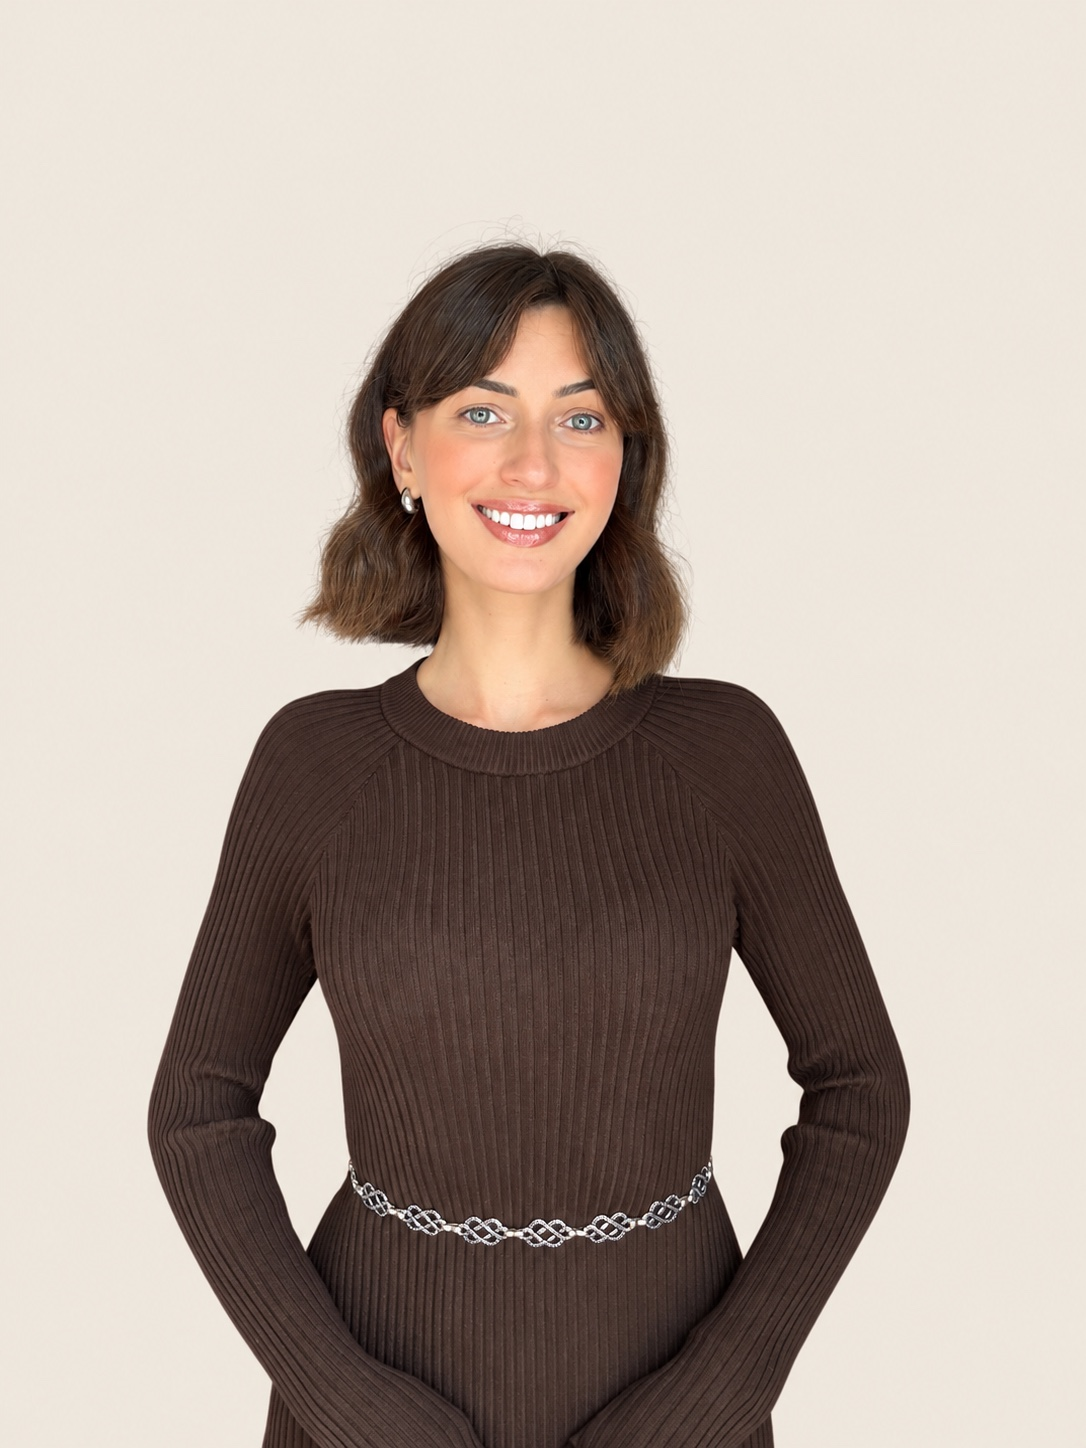
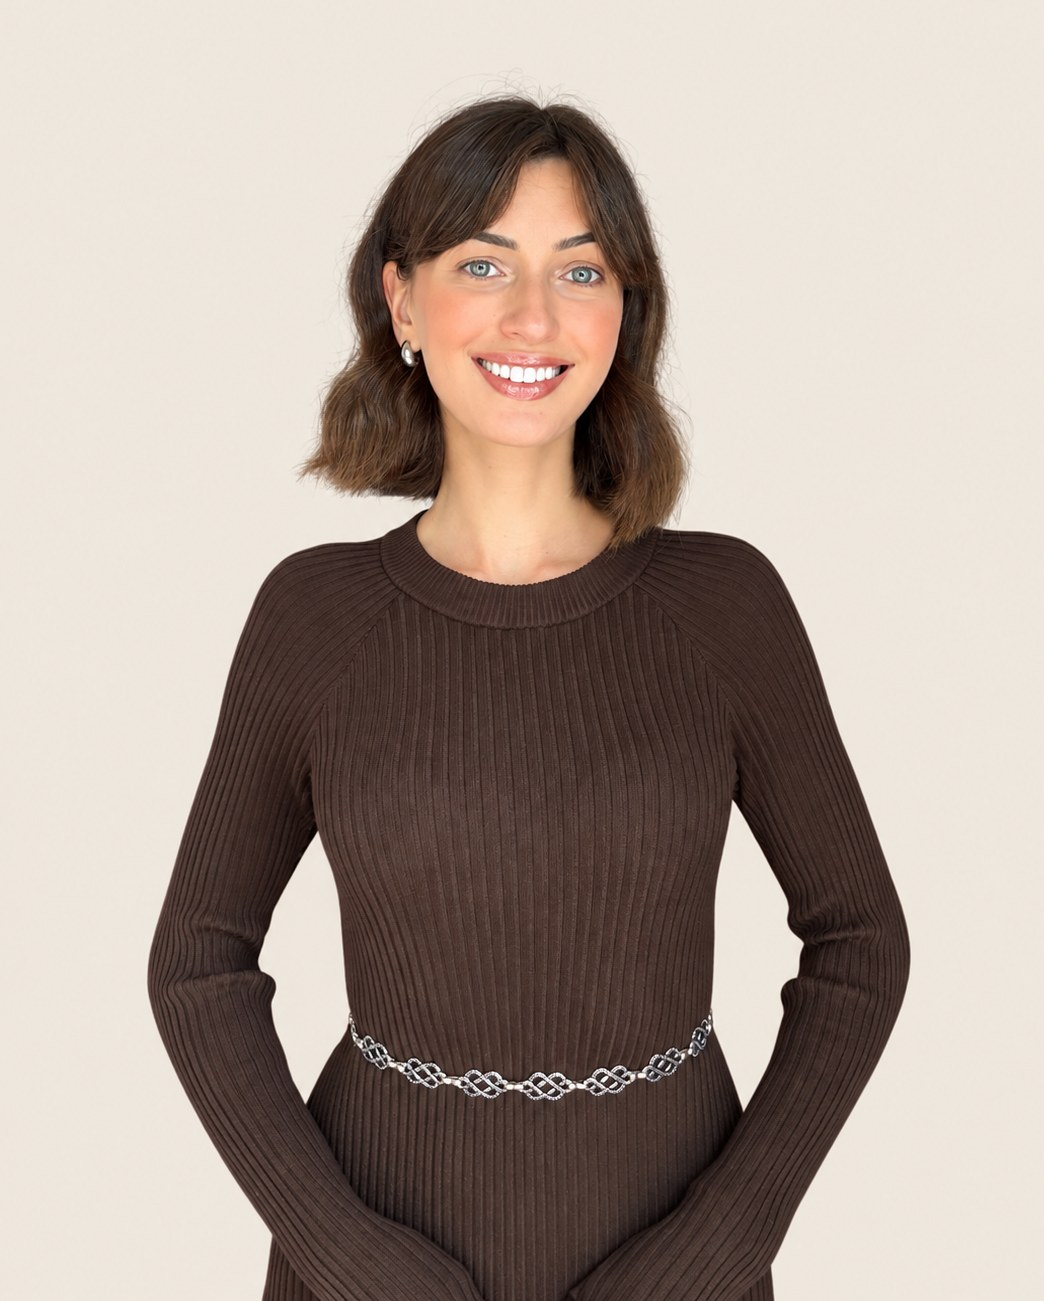
Recadrage photo Alisée (centrée, cadrage plus serré)

Changed region(s): [[0.1226, 0.0615, 0.8889, 1.0], [0.5824, 0.5842, 0.6437, 0.6149], [0.3985, 0.6149, 0.4291, 0.6457]]

diff --git a/apropos.html b/apropos.html
@@ -44,7 +44,7 @@
         <p class="section-label">À propos</p>
         <div class="apropos-citation-carte">
           <div class="apropos-hero-image">
-            <img src="images/alisee-portrait.jpg" alt="Alisée" />
+            <img src="images/alisee-portrait.jpg?v=2" alt="Alisée" />
           </div>
           <div class="apropos-citation-texte">
             <p class="apropos-citation">

diff --git a/index.html b/index.html
@@ -44,7 +44,7 @@
         <p class="section-label">À propos</p>
         <div class="apropos-citation-carte">
           <div class="apropos-hero-image">
-            <img src="images/alisee-portrait.jpg" alt="Alisée" />
+            <img src="images/alisee-portrait.jpg?v=2" alt="Alisée" />
           </div>
           <div class="apropos-citation-texte">
             <p class="apropos-citation">
